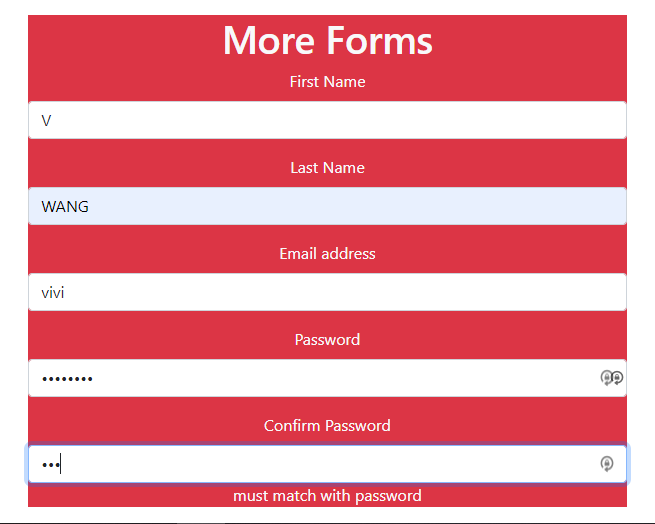
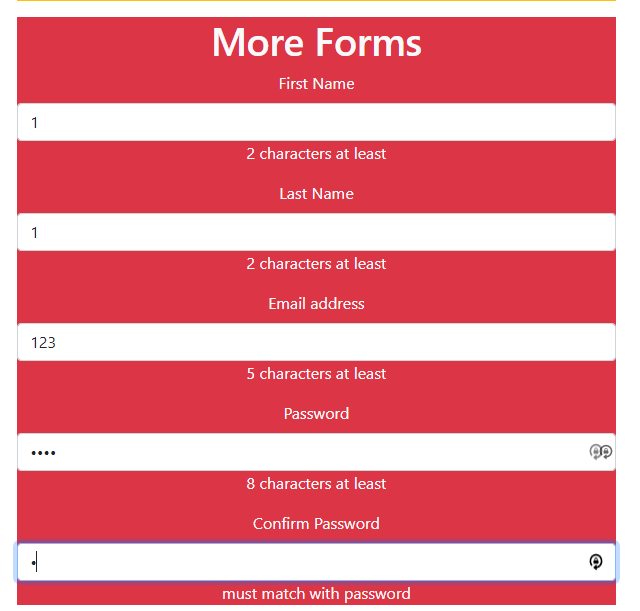
9/2/2021

Changed region(s): [[0.0, 0.0, 0.9688, 1.0]]

diff --git a/4.MERN/02.React/02.putting_it_together/src/components/ValidateForm.jsx b/4.MERN/02.React/02.putting_it_together/src/components/ValidateForm.jsx
@@ -11,58 +11,65 @@ const ValidateForm = () => {
 
   // use different name since we need to host it in a single change handler together with form's content update
   const [validation, setValidation] = useState({
-    validateFirstName: false,
-    validateLastName: false,
-    validateEmail: false,
-    validtePassword: false,
-    validateConfirmPassword: false,
+    validateFirstName: true,
+    validateLastName: true,
+    validateEmail: true,
+    validatePassword: true,
+    validateConfirmPassword: true,
   });
 
   //onChange cannot handle two functions since the second function will overwrite the first one, thus, we write both functions within a single event handler
   const changeHandler = (e) => {
     const { name, value } = e.target;
-    let validateFirstName = false;
-    let validateLastName = false;
-    let validateEmail = false;
-    let validatePassword = false;
-    let validateConfirmPassword = false;
+    //cannot set default value or it will be updated everytime calling changeHandler and the validation will not work correctly
+    // let validateFirstName;
+    // let validateLastName;
+    // let validateEmail;
+    // let validatePassword;
+    // let validateConfirmPassword;
     setForm({
       ...form,
       [name]: value,
     });
     // async function has delay on setState, thus, we use e.target to do the validation in realtime
-    if (e.target.name == "firstName" && e.target.value.length < 2) {
-      validateFirstName = true;
-    } else {
-      validateFirstName = false;
+    if (e.target.name == "firstName") {
+      if (e.target.value.length < 2) {
+        setValidation({ ...validation, validateFirstName: false });
+      } else {
+        setValidation({ ...validation, validateFirstName: true });
+      }
     }
-    if (e.target.name == "lastName" && e.target.value.length < 2) {
-      validateLastName = true;
-    } else {
-      validateLastName = false;
+
+    if (e.target.name == "lastName") {
+      if (e.target.value.length < 2) {
+        setValidation({ ...validation, validateLastName: false });
+      } else {
+        setValidation({ ...validation, validateLastName: true });
+      }
     }
-    if (e.target.name == "email" && e.target.value.length < 5) {
-      validateEmail = true;
-    } else {
-      validateEmail = false;
+    if (e.target.name == "email") {
+      if (e.target.value.length < 5) {
+        setValidation({ ...validation, validateEmail: false });
+      } else {
+        setValidation({ ...validation, validateEmail: true });
+      }
     }
-    if (e.target.name == "password" && e.target.value.length < 8) {
-      validatePassword = true;
-    } else {
-      validatePassword = false;
+
+    if (e.target.name == "password") {
+      if (e.target.value.length < 8) {
+        setValidation({ ...validation, validatePassword: false });
+      } else {
+        setValidation({ ...validation, validatePassword: true });
+      }
     }
-    if (e.target.name == "confirmPassword" && e.target.value != form.password) {
-      validateConfirmPassword = true;
-    } else {
-      validateConfirmPassword = false;
+
+    if (e.target.name == "confirmPassword") {
+      if (e.target.value != form.password) {
+        setValidation({ ...validation, validateConfirmPassword: false });
+      } else {
+        setValidation({ ...validation, validateConfirmPassword: true });
+      }
     }
-    setValidation({
-      validateFirstName,
-      validateLastName,
-      validateEmail,
-      validatePassword,
-      validateConfirmPassword,
-    });
   };
 
   return (
@@ -79,9 +86,9 @@ const ValidateForm = () => {
             name="firstName"
             onChange={changeHandler}
           />
-          {validation.validateFirstName ? (
+          {validation.validateFirstName ? null : (
             <p className="text-light">2 characters at least</p>
-          ) : null}
+          )}
         </div>
         <div className="mb-3">
           <label for="lastName" className="form-label">
@@ -93,9 +100,9 @@ const ValidateForm = () => {
             name="lastName"
             onChange={changeHandler}
           />
-          {validation.validateLastName ? (
+          {validation.validateLastName ? null : (
             <p className="text-light">2 characters at least</p>
-          ) : null}
+          )}
         </div>
         <div className="mb-3">
           <label for="email" className="form-label">
@@ -107,9 +114,9 @@ const ValidateForm = () => {
             name="email"
             onChange={changeHandler}
           />
-          {validation.validateEmail ? (
+          {validation.validateEmail ? null : (
             <p className="text-light">5 characters at least</p>
-          ) : null}
+          )}
         </div>
         <div className="mb-3">
           <label for="paswsword" className="form-label">
@@ -121,9 +128,9 @@ const ValidateForm = () => {
             name="password"
             onChange={changeHandler}
           />
-          {validation.validatePassword ? (
+          {validation.validatePassword ? null : (
             <p className="text-light">8 characters at least</p>
-          ) : null}
+          )}
         </div>
         <div className="mb-3">
           <label for="confirmPaswsword" className="form-label">
@@ -135,9 +142,9 @@ const ValidateForm = () => {
             name="confirmPassword"
             onChange={changeHandler}
           />
-          {validation.validateConfirmPassword ? (
+          {validation.validateConfirmPassword ? null : (
             <p className="text-light">must match with password</p>
-          ) : null}
+          )}
         </div>
       </form>
     </div>
